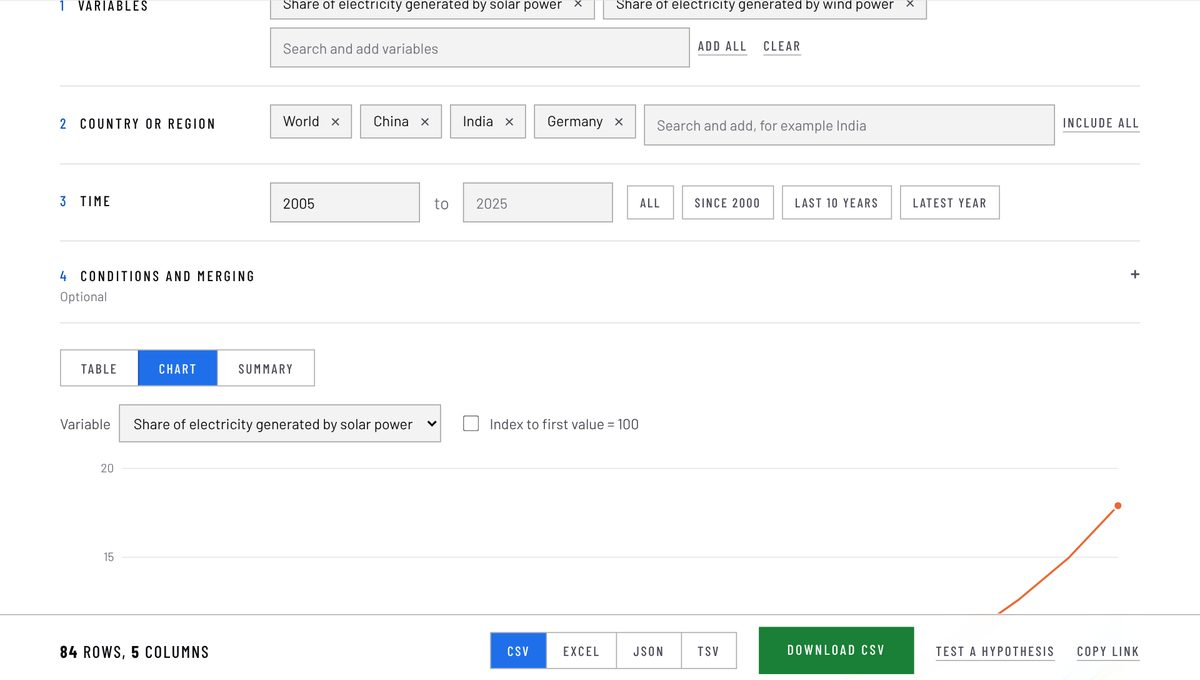
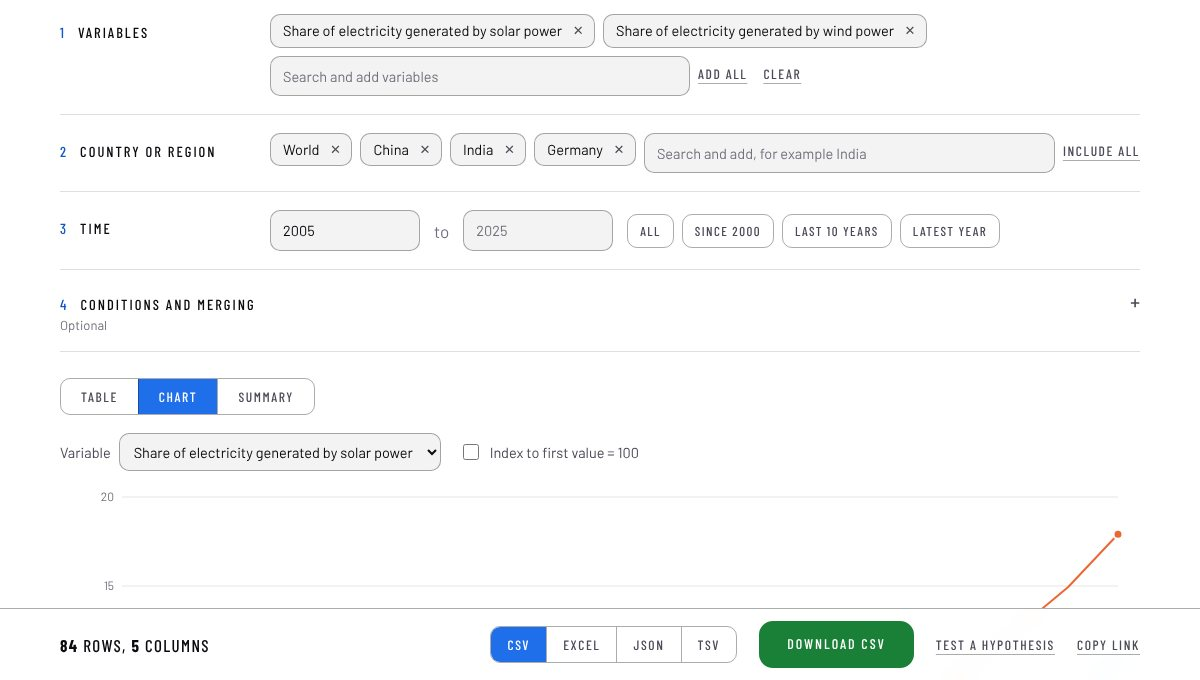
Rounded corners on every box
One scale of corner sizes (--r-xs, --r-s, --r-m, --r-l) set at the top of site.css.
Buttons, fields, chips, tags, cards, menus, the chat window and its bubbles are rounded.
Joined rows of choices share one rounded outline; the analysis tools are separate rounded buttons.
The drawn pictures on the home page and the guide's screenshots show the same shapes.
Also removes a stray margin that pushed the Read it button below its field.

diff --git a/docs/index.html b/docs/index.html
@@ -26,10 +26,10 @@
 <section class="sec" id="how"><div class="wrap">
 <div class="sec-head"><div><h2>Four ways to use it</h2><p>Start with the one that matches what you came for. <a href="guide.html">The guide</a> walks through each of them with examples.</p></div></div>
 <div class="ways">
-<a class="way" href="ask.html"><svg class="art a1" viewBox="0 0 320 200" role="img" aria-label="A question typed into a box, answered with one large number, its year and its source"><rect class="bg" width="320" height="200"/><rect class="paper edge" x="24" y="22" width="208" height="34"/><text x="36" y="44" class="t13">India life expectancy</text><rect class="ink" x="161" y="31" width="1.5" height="16"/><rect class="fillc" x="232" y="22" width="64" height="34"/><text x="264" y="44" class="tag on" text-anchor="middle">ASK</text><text x="24" y="84" class="t11 soft">Life expectancy at birth, India, <tspan id="art-ask-y">2024</tspan></text><text x="24" y="138" class="big" id="art-ask-n">72.2</text><text x="128" y="138" class="t16 soft" id="art-ask-u">years</text><polyline id="art-ask-line" class="line" points="188,134 206,128 224,123 242,116 260,110 270,114 282,104 296,100"/><circle id="art-ask-dot" class="dot" cx="296" cy="100" r="4.5"/><rect class="paper hair" x="24" y="156" width="132" height="22"/><text x="34" y="171" class="t11">Source: World Bank</text></svg><div><h3>Ask Data AI</h3><p>Chat by typing or by voice. You get the answer with its year and its source, a chart or a map when you ask for one, and a plain explanation when you ask why.</p><span class="btn solid">Ask Data AI</span></div></a>
-<a class="way" href="datasets.html"><svg class="art a2" viewBox="0 0 320 200" role="img" aria-label="Chosen variables, places and years as chips, the table they give, and a download button with file formats"><rect class="bg" width="320" height="200"/><rect class="paper hair" x="24" y="22" width="92" height="22"/><text x="33" y="37" class="t11">CO2 per person</text><rect class="paper hair" x="122" y="22" width="48" height="22"/><text x="131" y="37" class="t11">India</text><rect class="paper hair" x="176" y="22" width="78" height="22"/><text x="185" y="37" class="t11">2000 to 2025</text><rect class="paper hair" x="24" y="58" width="196" height="120"/><rect class="wash" x="24.5" y="58.5" width="195" height="24"/><path class="hairline" d="M24 82.5H220M76 58V178M116 58V178M164 58V178"/><text x="34" y="75" class="tag soft">PLACE</text><text x="86" y="75" class="tag soft">YEAR</text><text x="126" y="75" class="tag c">CO2</text><text x="174" y="75" class="tag c">GDP</text><rect class="cell" x="34" y="96" width="34" height="7" rx="2"/><rect class="cell" x="86" y="96" width="18" height="7" rx="2"/><rect class="cellc" x="126" y="96" width="34" height="7" rx="2"/><rect class="cellc" x="174" y="96" width="24" height="7" rx="2"/><rect class="cell" x="34" y="116" width="28" height="7" rx="2"/><rect class="cell" x="86" y="116" width="22" height="7" rx="2"/><rect class="cellc" x="126" y="116" width="34" height="7" rx="2"/><rect class="cellc" x="174" y="116" width="34" height="7" rx="2"/><rect class="cell" x="34" y="136" width="38" height="7" rx="2"/><rect class="cell" x="86" y="136" width="16" height="7" rx="2"/><rect class="cellc" x="126" y="136" width="26" height="7" rx="2"/><rect class="cellc" x="174" y="136" width="34" height="7" rx="2"/><rect class="cell" x="34" y="156" width="34" height="7" rx="2"/><rect class="cell" x="86" y="156" width="18" height="7" rx="2"/><rect class="cellc" x="126" y="156" width="26" height="7" rx="2"/><rect class="cellc" x="174" y="156" width="30" height="7" rx="2"/><rect class="paper hair" x="234" y="58" width="62" height="19"/><text x="265" y="71.5" class="tag" text-anchor="middle">CSV</text><rect class="paper hair" x="234" y="82" width="62" height="19"/><text x="265" y="95.5" class="tag" text-anchor="middle">EXCEL</text><rect class="paper hair" x="234" y="106" width="62" height="19"/><text x="265" y="119.5" class="tag" text-anchor="middle">JSON</text><rect class="fillg" x="234" y="132" width="62" height="46"/><path class="onstroke" d="M265 142v20M256 154l9 9 9-9M253 170h24"/></svg><div><h3>Take a dataset</h3><p>Choose the variables, places and years. Check the table and the chart. Download CSV, Excel or JSON.</p><span class="btn get">Browse the datasets</span></div></a>
-<a class="way" href="research.html"><svg class="art a3" viewBox="0 0 320 200" role="img" aria-label="A scatter of points with a fitted line through them and the test result beside it"><rect class="bg" width="320" height="200"/><path class="axis" d="M30 22V172H298"/><g class="dots"><circle cx="49.8" cy="150.6" r="4"/><circle cx="51.2" cy="160.0" r="4"/><circle cx="62.6" cy="140.7" r="4"/><circle cx="66.3" cy="145.5" r="4"/><circle cx="74.3" cy="148.1" r="4"/><circle cx="85.3" cy="108.7" r="4"/><circle cx="89.0" cy="128.1" r="4"/><circle cx="96.2" cy="112.8" r="4"/><circle cx="102.2" cy="116.6" r="4"/><circle cx="114.2" cy="118.0" r="4"/><circle cx="120.4" cy="124.1" r="4"/><circle cx="121.7" cy="101.3" r="4"/><circle cx="130.8" cy="101.4" r="4"/><circle cx="141.2" cy="92.1" r="4"/><circle cx="144.2" cy="91.9" r="4"/><circle cx="153.1" cy="98.7" r="4"/><circle cx="158.6" cy="92.4" r="4"/><circle cx="164.6" cy="107.5" r="4"/><circle cx="174.3" cy="99.3" r="4"/><circle cx="182.7" cy="85.7" r="4"/><circle cx="190.1" cy="92.0" r="4"/><circle cx="192.7" cy="93.6" r="4"/><circle cx="205.7" cy="73.1" r="4"/><circle cx="207.6" cy="71.7" r="4"/><circle cx="216.5" cy="65.9" r="4"/><circle cx="221.9" cy="68.6" r="4"/><circle cx="229.8" cy="81.0" r="4"/><circle cx="236.5" cy="60.0" r="4"/><circle cx="245.8" cy="72.8" r="4"/><circle cx="255.3" cy="64.3" r="4"/><circle cx="257.8" cy="75.6" r="4"/><circle cx="263.4" cy="67.5" r="4"/><circle cx="276.7" cy="60.4" r="4"/><circle cx="279.3" cy="76.1" r="4"/></g><path class="fit" d="M40 150C90 96 190 72 292 58"/><rect class="paper hair" x="42" y="22" width="150" height="22"/><text x="52" y="37" class="t11">Richer countries live longer?</text><rect class="ink" x="206" y="132" width="82" height="28"/><text x="247" y="151" class="t13 inv" text-anchor="middle">p &lt; 0.001</text></svg><div><h3>Test an idea</h3><p>State a hypothesis. Get the right test with the reasons for it, then the result in plain words with charts.</p><span class="btn">Open Researcher mode</span></div></a>
-<a class="way" href="mydata.html"><svg class="art a4" viewBox="0 0 320 200" role="img" aria-label="A file from your computer turned into a profile of its columns: a spread of numbers, groups and dates"><rect class="bg" width="320" height="200"/><path class="paper edge" d="M28 28H74L96 50V124H28Z"/><path class="edgeline" d="M74 28V50H96"/><text x="62" y="92" class="tag big2" text-anchor="middle">.CSV</text><text x="28" y="146" class="tag soft">XLSX  JSON  PARQUET</text><text x="28" y="162" class="tag soft">SPSS  STATA</text><text x="28" y="180" class="t11">Never uploaded</text><path class="arrow" d="M104 76H126M119 69l8 7-8 7"/><rect class="paper hair" x="134" y="24" width="162" height="154"/><path class="hairline" d="M134 76.5H296M134 128.5H296"/><text x="144" y="46" class="tag">INCOME</text><text x="144" y="60" class="t10 soft">number</text><rect class="b1" x="196" y="62" width="8" height="4"/><rect class="b1" x="206" y="57" width="8" height="9"/><rect class="b1" x="216" y="50" width="8" height="16"/><rect class="b1" x="226" y="42" width="8" height="24"/><rect class="b1" x="236" y="38" width="8" height="28"/><rect class="b1" x="246" y="44" width="8" height="22"/><rect class="b1" x="256" y="53" width="8" height="13"/><rect class="b1" x="266" y="59" width="8" height="7"/><rect class="b1" x="276" y="63" width="8" height="3"/><text x="144" y="98" class="tag">REGION</text><text x="144" y="112" class="t10 soft">category</text><rect class="b4" x="196" y="86" width="88" height="6" rx="1.5"/><rect class="b4" x="196" y="95" width="61" height="6" rx="1.5"/><rect class="b4" x="196" y="104" width="40" height="6" rx="1.5"/><rect class="b4" x="196" y="113" width="22" height="6" rx="1.5"/><text x="144" y="150" class="tag">VISIT</text><text x="144" y="164" class="t10 soft">date</text><rect class="b3" x="196" y="154" width="8" height="14"/><rect class="b3" x="206" y="150" width="8" height="18"/><rect class="b3" x="216" y="156" width="8" height="12"/><rect class="b3" x="226" y="148" width="8" height="20"/><rect class="b3" x="236" y="152" width="8" height="16"/><rect class="b3" x="246" y="146" width="8" height="22"/><rect class="b3" x="256" y="153" width="8" height="15"/><rect class="b3" x="266" y="149" width="8" height="19"/><rect class="b3" x="276" y="151" width="8" height="17"/></svg><div><h3>Analyse your own file</h3><p>Open a CSV, Excel, JSON, Parquet, SPSS or Stata file. It is read in your browser and never uploaded.</p><span class="btn">Open a file</span></div></a>
+<a class="way" href="ask.html"><svg class="art a1" viewBox="0 0 320 200" role="img" aria-label="A question typed into a box, answered with one large number, its year and its source"><rect class="bg" width="320" height="200"/><path class="paper edge" d="M34 22H232V56H34a10 10 0 0 1-10-10V32a10 10 0 0 1 10-10z"/><text x="36" y="44" class="t13">India life expectancy</text><rect class="ink" x="161" y="31" width="1.5" height="16"/><path class="fillc" d="M231 21h56a10 10 0 0 1 10 10v16a10 10 0 0 1-10 10h-56z"/><text x="264" y="44" class="tag on" text-anchor="middle">ASK</text><text x="24" y="84" class="t11 soft">Life expectancy at birth, India, <tspan id="art-ask-y">2024</tspan></text><text x="24" y="138" class="big" id="art-ask-n">72.2</text><text x="128" y="138" class="t16 soft" id="art-ask-u">years</text><polyline id="art-ask-line" class="line" points="188,134 206,128 224,123 242,116 260,110 270,114 282,104 296,100"/><circle id="art-ask-dot" class="dot" cx="296" cy="100" r="4.5"/><rect class="paper hair" x="24" y="156" width="132" height="22" rx="7"/><text x="34" y="171" class="t11">Source: World Bank</text></svg><div><h3>Ask Data AI</h3><p>Chat by typing or by voice. You get the answer with its year and its source, a chart or a map when you ask for one, and a plain explanation when you ask why.</p><span class="btn solid">Ask Data AI</span></div></a>
+<a class="way" href="datasets.html"><svg class="art a2" viewBox="0 0 320 200" role="img" aria-label="Chosen variables, places and years as chips, the table they give, and a download button with file formats"><rect class="bg" width="320" height="200"/><rect class="paper hair" x="24" y="22" width="92" height="22" rx="7"/><text x="33" y="37" class="t11">CO2 per person</text><rect class="paper hair" x="122" y="22" width="48" height="22" rx="7"/><text x="131" y="37" class="t11">India</text><rect class="paper hair" x="176" y="22" width="78" height="22" rx="7"/><text x="185" y="37" class="t11">2000 to 2025</text><rect class="paper hair" x="24" y="58" width="196" height="120" rx="9"/><path class="wash" d="M24.5 82.5V67a8.5 8.5 0 0 1 8.5-8.5H211a8.5 8.5 0 0 1 8.5 8.5V82.5z"/><path class="hairline" d="M24 82.5H220M76 58V178M116 58V178M164 58V178"/><text x="34" y="75" class="tag soft">PLACE</text><text x="86" y="75" class="tag soft">YEAR</text><text x="126" y="75" class="tag c">CO2</text><text x="174" y="75" class="tag c">GDP</text><rect class="cell" x="34" y="96" width="34" height="7" rx="2"/><rect class="cell" x="86" y="96" width="18" height="7" rx="2"/><rect class="cellc" x="126" y="96" width="34" height="7" rx="2"/><rect class="cellc" x="174" y="96" width="24" height="7" rx="2"/><rect class="cell" x="34" y="116" width="28" height="7" rx="2"/><rect class="cell" x="86" y="116" width="22" height="7" rx="2"/><rect class="cellc" x="126" y="116" width="34" height="7" rx="2"/><rect class="cellc" x="174" y="116" width="34" height="7" rx="2"/><rect class="cell" x="34" y="136" width="38" height="7" rx="2"/><rect class="cell" x="86" y="136" width="16" height="7" rx="2"/><rect class="cellc" x="126" y="136" width="26" height="7" rx="2"/><rect class="cellc" x="174" y="136" width="34" height="7" rx="2"/><rect class="cell" x="34" y="156" width="34" height="7" rx="2"/><rect class="cell" x="86" y="156" width="18" height="7" rx="2"/><rect class="cellc" x="126" y="156" width="26" height="7" rx="2"/><rect class="cellc" x="174" y="156" width="30" height="7" rx="2"/><rect class="paper hair" x="234" y="58" width="62" height="19" rx="6"/><text x="265" y="71.5" class="tag" text-anchor="middle">CSV</text><rect class="paper hair" x="234" y="82" width="62" height="19" rx="6"/><text x="265" y="95.5" class="tag" text-anchor="middle">EXCEL</text><rect class="paper hair" x="234" y="106" width="62" height="19" rx="6"/><text x="265" y="119.5" class="tag" text-anchor="middle">JSON</text><rect class="fillg" x="234" y="132" width="62" height="46" rx="9"/><path class="onstroke" d="M265 142v20M256 154l9 9 9-9M253 170h24"/></svg><div><h3>Take a dataset</h3><p>Choose the variables, places and years. Check the table and the chart. Download CSV, Excel or JSON.</p><span class="btn get">Browse the datasets</span></div></a>
+<a class="way" href="research.html"><svg class="art a3" viewBox="0 0 320 200" role="img" aria-label="A scatter of points with a fitted line through them and the test result beside it"><rect class="bg" width="320" height="200"/><path class="axis" d="M30 22V172H298"/><g class="dots"><circle cx="49.8" cy="150.6" r="4"/><circle cx="51.2" cy="160.0" r="4"/><circle cx="62.6" cy="140.7" r="4"/><circle cx="66.3" cy="145.5" r="4"/><circle cx="74.3" cy="148.1" r="4"/><circle cx="85.3" cy="108.7" r="4"/><circle cx="89.0" cy="128.1" r="4"/><circle cx="96.2" cy="112.8" r="4"/><circle cx="102.2" cy="116.6" r="4"/><circle cx="114.2" cy="118.0" r="4"/><circle cx="120.4" cy="124.1" r="4"/><circle cx="121.7" cy="101.3" r="4"/><circle cx="130.8" cy="101.4" r="4"/><circle cx="141.2" cy="92.1" r="4"/><circle cx="144.2" cy="91.9" r="4"/><circle cx="153.1" cy="98.7" r="4"/><circle cx="158.6" cy="92.4" r="4"/><circle cx="164.6" cy="107.5" r="4"/><circle cx="174.3" cy="99.3" r="4"/><circle cx="182.7" cy="85.7" r="4"/><circle cx="190.1" cy="92.0" r="4"/><circle cx="192.7" cy="93.6" r="4"/><circle cx="205.7" cy="73.1" r="4"/><circle cx="207.6" cy="71.7" r="4"/><circle cx="216.5" cy="65.9" r="4"/><circle cx="221.9" cy="68.6" r="4"/><circle cx="229.8" cy="81.0" r="4"/><circle cx="236.5" cy="60.0" r="4"/><circle cx="245.8" cy="72.8" r="4"/><circle cx="255.3" cy="64.3" r="4"/><circle cx="257.8" cy="75.6" r="4"/><circle cx="263.4" cy="67.5" r="4"/><circle cx="276.7" cy="60.4" r="4"/><circle cx="279.3" cy="76.1" r="4"/></g><path class="fit" d="M40 150C90 96 190 72 292 58"/><rect class="paper hair" x="42" y="22" width="150" height="22" rx="7"/><text x="52" y="37" class="t11">Richer countries live longer?</text><rect class="ink" x="206" y="132" width="82" height="28" rx="8"/><text x="247" y="151" class="t13 inv" text-anchor="middle">p &lt; 0.001</text></svg><div><h3>Test an idea</h3><p>State a hypothesis. Get the right test with the reasons for it, then the result in plain words with charts.</p><span class="btn">Open Researcher mode</span></div></a>
+<a class="way" href="mydata.html"><svg class="art a4" viewBox="0 0 320 200" role="img" aria-label="A file from your computer turned into a profile of its columns: a spread of numbers, groups and dates"><rect class="bg" width="320" height="200"/><path class="paper edge" d="M35 28H74L96 50V117a7 7 0 0 1-7 7H35a7 7 0 0 1-7-7V35a7 7 0 0 1 7-7z"/><path class="edgeline" d="M74 28V50H96"/><text x="62" y="92" class="tag big2" text-anchor="middle">.CSV</text><text x="28" y="146" class="tag soft">XLSX  JSON  PARQUET</text><text x="28" y="162" class="tag soft">SPSS  STATA</text><text x="28" y="180" class="t11">Never uploaded</text><path class="arrow" d="M104 76H126M119 69l8 7-8 7"/><rect class="paper hair" x="134" y="24" width="162" height="154" rx="9"/><path class="hairline" d="M134 76.5H296M134 128.5H296"/><text x="144" y="46" class="tag">INCOME</text><text x="144" y="60" class="t10 soft">number</text><rect class="b1" x="196" y="62" width="8" height="4"/><rect class="b1" x="206" y="57" width="8" height="9"/><rect class="b1" x="216" y="50" width="8" height="16"/><rect class="b1" x="226" y="42" width="8" height="24"/><rect class="b1" x="236" y="38" width="8" height="28"/><rect class="b1" x="246" y="44" width="8" height="22"/><rect class="b1" x="256" y="53" width="8" height="13"/><rect class="b1" x="266" y="59" width="8" height="7"/><rect class="b1" x="276" y="63" width="8" height="3"/><text x="144" y="98" class="tag">REGION</text><text x="144" y="112" class="t10 soft">category</text><rect class="b4" x="196" y="86" width="88" height="6" rx="1.5"/><rect class="b4" x="196" y="95" width="61" height="6" rx="1.5"/><rect class="b4" x="196" y="104" width="40" height="6" rx="1.5"/><rect class="b4" x="196" y="113" width="22" height="6" rx="1.5"/><text x="144" y="150" class="tag">VISIT</text><text x="144" y="164" class="t10 soft">date</text><rect class="b3" x="196" y="154" width="8" height="14"/><rect class="b3" x="206" y="150" width="8" height="18"/><rect class="b3" x="216" y="156" width="8" height="12"/><rect class="b3" x="226" y="148" width="8" height="20"/><rect class="b3" x="236" y="152" width="8" height="16"/><rect class="b3" x="246" y="146" width="8" height="22"/><rect class="b3" x="256" y="153" width="8" height="15"/><rect class="b3" x="266" y="149" width="8" height="19"/><rect class="b3" x="276" y="151" width="8" height="17"/></svg><div><h3>Analyse your own file</h3><p>Open a CSV, Excel, JSON, Parquet, SPSS or Stata file. It is read in your browser and never uploaded.</p><span class="btn">Open a file</span></div></a>
 </div>
 </div></section>
 

diff --git a/docs/assets/site.css b/docs/assets/site.css
@@ -19,6 +19,8 @@
   --display:"Barlow Condensed","Arial Narrow",Arial,sans-serif;--body:"Barlow","Helvetica Neue",Arial,sans-serif;
   --pad:clamp(20px,5vw,72px);--nav:64px;
   --muted:var(--ink2);
+  /* corner radii: one scale for every box. xs marks and swatches, s chips and small controls, m buttons, fields and cards, l large panels */
+  --r-xs:4px;--r-s:10px;--r-m:14px;--r-l:20px;
 }
 :root[data-theme=dark]{
   color-scheme:dark;
@@ -81,7 +83,7 @@ nav a:hover,nav a:focus-visible,nav a.on{background-size:100% 2px}
 .btn small{font:inherit;opacity:.8;margin-left:6px;letter-spacing:.08em}
 .link{background:none;border:0;padding:0;color:var(--ink2);font:500 13.5px var(--display);letter-spacing:.12em;text-transform:uppercase;cursor:pointer;text-decoration:underline;text-underline-offset:4px;text-decoration-color:var(--line2)}
 .link:hover{color:var(--accent-text);text-decoration-color:var(--accent-text)}
-input,select{font:inherit;color:var(--ink);background:var(--wash);border:1px solid var(--line2);border-radius:0;padding:10px 12px;min-width:0}
+input,select{font:inherit;color:var(--ink);background:var(--wash);border:1px solid var(--line2);border-radius:var(--r-s);padding:10px 12px;min-width:0}
 input:focus,select:focus{outline:0;border-color:var(--accent-text)}
 input::placeholder{color:var(--ink3)}
 input[type=checkbox],input[type=radio]{accent-color:var(--accent);width:16px;height:16px;padding:0;flex:none}
@@ -110,7 +112,7 @@ input[type=checkbox],input[type=radio]{accent-color:var(--accent);width:16px;hei
 .search .btn{height:60px;padding:0 30px;font-size:15px;border-width:2px;margin-left:-2px}
 .search input{width:100%;height:60px;padding:0 20px;font-size:18px;border:2px solid var(--ink);background:var(--bg)}
 .search input:focus{border-color:var(--accent-text)}
-.results{position:absolute;left:0;right:0;top:100%;z-index:20;background:var(--menu);border:2px solid var(--ink);border-top:0;max-height:min(420px,52vh);overflow:auto;box-shadow:0 18px 34px rgba(0,0,0,.16)}
+.results{position:absolute;left:0;right:0;top:calc(100% + 6px);z-index:20;background:var(--menu);border:2px solid var(--ink);border-radius:var(--r-m);max-height:min(420px,52vh);overflow:auto;box-shadow:0 18px 34px rgba(0,0,0,.16)}
 .res{display:flex;justify-content:space-between;align-items:baseline;gap:16px;padding:12px 20px;text-decoration:none;border-top:1px solid var(--line)}
 .res:first-child{border-top:0}
 .res:hover,.res.act{background:var(--wash)}
@@ -278,7 +280,7 @@ tr.region td{font-weight:600;border-top:1px solid var(--line2)}
 button.chip.more{cursor:pointer;color:var(--ink);font:inherit;font-size:14.5px;padding:7px 12px}
 .combo{position:relative;flex:1 1 240px;min-width:200px;max-width:420px}
 .combo input{width:100%;padding:8px 12px;font-size:14.5px}
-.menu{position:absolute;left:0;top:100%;z-index:25;width:max(100%,340px);max-width:92vw;max-height:300px;overflow:auto;background:var(--menu);box-shadow:0 12px 30px rgba(0,0,0,.3);border:1px solid var(--ink);border-top:0}
+.menu{position:absolute;left:0;top:100%;z-index:25;width:max(100%,340px);max-width:92vw;max-height:300px;overflow:auto;background:var(--menu);box-shadow:0 12px 30px rgba(0,0,0,.3);border:1px solid var(--ink);border-radius:var(--r-s);margin-top:4px}
 .opt{display:flex;gap:10px;align-items:flex-start;padding:8px 12px;font-size:14.5px;line-height:1.35;cursor:pointer;border-top:1px solid var(--line)}
 .opt:first-child{border-top:0}
 .opt:hover,.opt.act{background:var(--wash)}
@@ -507,8 +509,6 @@ details.code p{color:var(--ink2);font-size:15px;max-width:86ch}
 .hyp input[type=search]{-webkit-appearance:none;appearance:none}
 #examples button{font:500 13.5px var(--display);letter-spacing:.1em;text-transform:uppercase;padding:7px 12px;border:1px solid var(--line2);background:var(--bg);color:var(--ink);cursor:pointer}
 #examples button:hover{background:var(--accent);color:#fff;border-color:var(--accent)}
-#read{margin-top:18px}
-#read a{color:var(--accent-text)}
 .answer{padding:30px 0 34px;border-top:2px solid var(--ink);margin-top:34px}
 .answer .kick{color:var(--accent-text)}
 .ans-q{font:500 clamp(17px,1.5vw,20px) var(--body);color:var(--ink2);margin:10px 0 2px}
@@ -585,15 +585,15 @@ textarea{font:14px/1.45 ui-monospace,"SF Mono",Menlo,Consolas,monospace;color:va
 .tag.k-num{border-color:var(--s1);color:var(--accent-text)}
 .tag.k-cat{border-color:var(--s4)}
 .tag.k-date{border-color:var(--s3)}
-.tools{display:grid;grid-template-columns:repeat(auto-fill,minmax(250px,1fr));gap:0;border-top:1px solid var(--line2);border-left:1px solid var(--line2)}
-.tools button{text-align:left;background:none;border:0;border-right:1px solid var(--line2);border-bottom:1px solid var(--line2);padding:14px 16px;cursor:pointer;color:var(--ink);font:inherit}
+.tools{display:grid;grid-template-columns:repeat(auto-fill,minmax(250px,1fr));gap:10px}
+.tools button{text-align:left;background:none;border:1px solid var(--line2);border-radius:var(--r-m);padding:14px 16px;cursor:pointer;color:var(--ink);font:inherit}
 .tools button b{display:block;font:600 17px var(--display);letter-spacing:.06em;text-transform:uppercase}
 .tools button span{display:block;color:var(--ink2);font-size:14px;margin-top:4px;line-height:1.4}
 .tools button:hover:not(:disabled){background:var(--wash)}
-.tools button[aria-pressed=true]{background:var(--accent);color:#fff}
+.tools button[aria-pressed=true]{background:var(--accent);border-color:var(--accent);color:#fff}
 .tools button[aria-pressed=true] span{color:#e6efff}
 .tools button:disabled{opacity:.45;cursor:not-allowed}
-.toolform{border:1px solid var(--line2);border-top:0;border-left:4px solid var(--accent);padding:22px 24px;background:var(--accent-soft)}
+.toolform{border:1px solid var(--line2);border-left:4px solid var(--accent);border-radius:var(--r-m);margin-top:12px;padding:22px 24px;background:var(--accent-soft)}
 .toolform h3{font-size:24px}
 .toolform .hint{margin:6px 0 16px}
 .toolform select{width:100%;font-size:15px;padding:9px 10px;background:var(--bg)}
@@ -757,7 +757,7 @@ details.evidence[open] summary{margin-bottom:12px}
 .askbar{flex:0 0 auto;border-top:1px solid var(--line2);padding:12px 18px max(10px,env(safe-area-inset-bottom));background:var(--bg)}
 .askbar .voice-note{margin:0 0 10px;max-width:none}
 .composer{display:flex;gap:10px;align-items:flex-end}
-.composer textarea{flex:1 1 auto;width:auto;min-width:0;height:52px;min-height:52px;max-height:168px;resize:none;padding:12px 16px;font:400 17px/1.5 var(--body);color:var(--ink);background:var(--bg);border:2px solid var(--line2);border-radius:0}
+.composer textarea{flex:1 1 auto;width:auto;min-width:0;height:52px;min-height:52px;max-height:168px;resize:none;padding:12px 16px;font:400 17px/1.5 var(--body);color:var(--ink);background:var(--bg);border:2px solid var(--line2);border-radius:var(--r-m)}
 .composer textarea:focus{outline:0;border-color:var(--accent-text)}
 .composer textarea::placeholder{color:var(--ink3)}
 .composer .mic{width:52px;height:52px}
@@ -838,3 +838,40 @@ td.stand .tag{white-space:normal}
 .nextq button{font:400 15px/1.35 var(--body);text-align:left;padding:9px 13px;border:1px solid var(--line2);background:var(--bg);color:var(--ink);cursor:pointer;min-height:42px}
 .nextq button:hover{border-color:var(--accent);background:var(--accent);color:#fff}
 .nextq button:focus-visible{outline:2px solid var(--accent-text);outline-offset:2px}
+
+/* ---------- rounded corners ----------
+   Every box on the site takes its corners from the four sizes set at the top (--r-xs, --r-s, --r-m, --r-l).
+   Controls that are joined in a row share one rounded outline instead of each having its own. */
+/* buttons and fields */
+.btn,.mic,.hyp input{border-radius:var(--r-m)}
+textarea,.theme,.menu-btn,.tip,.chip,.presets button,.rule button,.quick a,.quick button,.toc a,#examples button,#samples button,#suggest button,.standrow button,.nextq button,.tag{border-radius:var(--r-s)}
+.opt .box{border-radius:var(--r-xs)}
+.mic.live::after{border-radius:calc(var(--r-m) + 6px)}
+/* the home search: field, microphone and button are one shape */
+.search input{border-radius:var(--r-m) 0 0 var(--r-m);-webkit-appearance:none;appearance:none}
+.search .mic,.search .mic.live::after{border-radius:0}
+.search .btn{border-radius:0 var(--r-m) var(--r-m) 0}
+/* joined rows of choices: the outline is rounded and the choices are clipped to it */
+.seg,.pills,.tabs{border-radius:var(--r-s);overflow:hidden}
+.kinds{border-radius:var(--r-m);overflow:hidden}
+.duo{border-radius:var(--r-l);overflow:hidden}
+.grid{border-radius:var(--r-l)}
+.seg button:focus-visible,.pill:focus-visible,.tabs button:focus-visible,.kinds button:focus-visible,.duo a:focus-visible{outline-offset:-4px;outline-color:currentColor}
+/* cards and panels */
+.note,.rec,.card.brief,pre,.gstep img,.topics button,.drop.small{border-radius:var(--r-m)}
+.voice-note{border-radius:var(--r-s)}
+.way,.drop{border-radius:var(--r-l)}
+.way{overflow:hidden}
+@media(max-width:1060px){header.top nav{border-radius:0 0 var(--r-l) var(--r-l)}}
+/* the chat window */
+main>.wrap>section.chat,.chat{border-radius:var(--r-l);overflow:hidden}
+.avatar{border-radius:50%}
+.bubble{border-radius:18px}
+.msg.user .bubble{border-bottom-right-radius:6px}
+.msg.ai .bubble{border-top-left-radius:6px}
+@media(max-width:700px){main>.wrap>section.chat,.chat{border-radius:0}}
+/* small marks: legend swatches, scorecard bars, the cells of a correlation grid */
+.legend b,.maplegend i,.ds .where::before{border-radius:3px}
+.bar i.over{border-radius:0 3px 3px 0}
+.bar i.under{border-radius:3px 0 0 3px}
+table.heat td{border-radius:6px}
